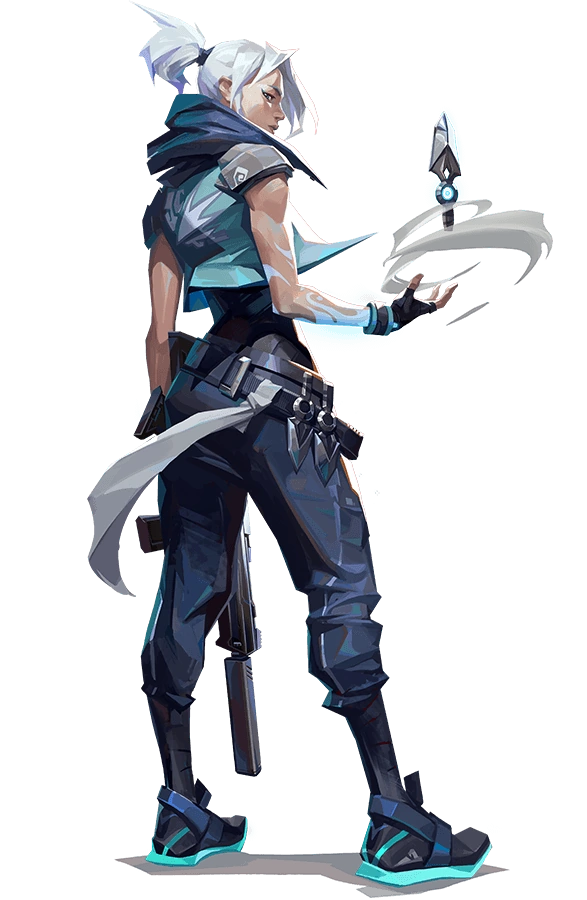
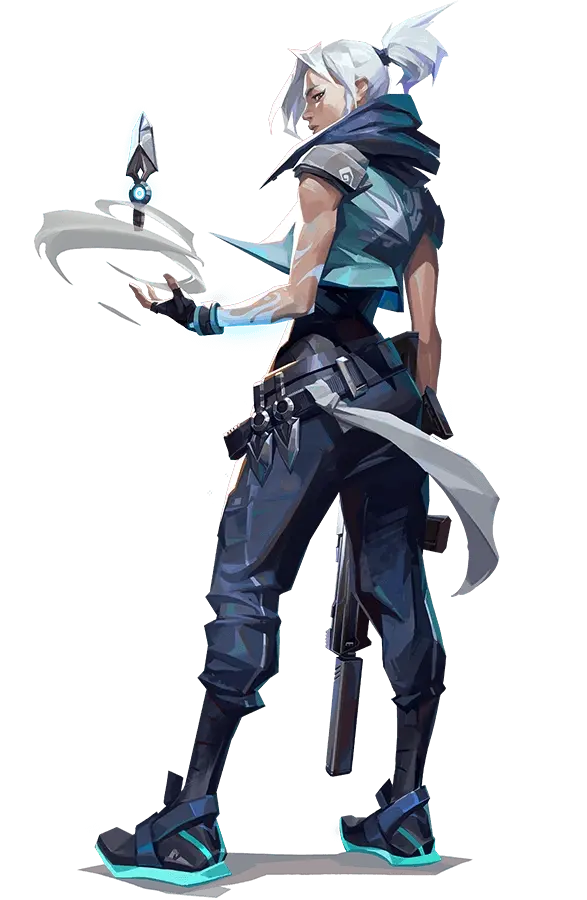
Se añadio un efecto de agrandar a la imagen del personaje

diff --git a/styles/styles.css b/styles/styles.css
@@ -115,15 +115,25 @@ body {
     color: var(--white-color)
 }
 
+.logo img{
+    padding-left: 1em;
+}
+
 .character {
     float: right;
-    transform: scaleX(-1);
+    /* transform: scaleX(-1); */
     position: relative;
     margin-top: -3em;
     margin-left: -20em;
     z-index: 2;
+    transition: transform 1s;
 }
 
+.character:hover {
+    /* transform: scaleX(-1); */
+    transform: scale(1.04, 1.04);
+    
+}
 
 
 main {
@@ -204,7 +214,7 @@ h5 {
     width: 100%;
     height: auto;
     /* max-width: 30rem; */
-    /* z-index: 4; */
+    z-index: 4;
 }
 
 .skills {
@@ -214,6 +224,7 @@ h5 {
     text-align: center;
     color: var(--white-color);
     /* font-size: 2px; */
+    z-index: 4;
 }
 
 .skills h3{
@@ -221,6 +232,7 @@ h5 {
     margin: .25rem 1rem auto auto;
     padding: auto;
     font-size: var(--normal-font-size);
+    z-index: 4;
 }
 
 .skills p{
@@ -229,6 +241,7 @@ h5 {
     padding: auto;
     font-size: var(--smaller-font-size);
     opacity: 80%;
+    z-index: 4;
 }
 
 .skills img {
